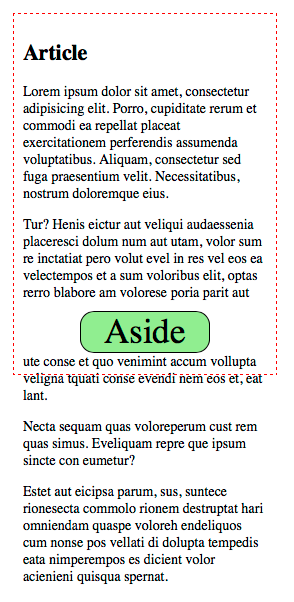
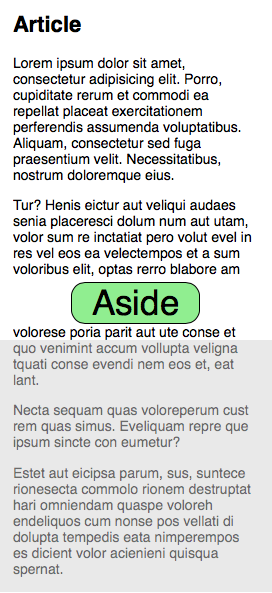
[css-regions] improve linked box images

diff --git a/css-regions/Overview.html b/css-regions/Overview.html
@@ -56,7 +56,7 @@
 </p>
   <h1 class="p-name no-ref" id=title>CSS Regions Module Level 1</h1>
   <h2 class="no-num no-toc no-ref heading settled heading" id=subtitle><span class=content>Editor’s Draft,
-    <span class=dt-updated><span class=value-title title=20140325>25 March 2014</span></span></span></h2>
+    <span class=dt-updated><span class=value-title title=20140328>28 March 2014</span></span></span></h2>
   <div data-fill-with=spec-metadata><dl><dt>This version:<dd><a class=u-url href=http://dev.w3.org/csswg/css-regions/>http://dev.w3.org/csswg/css-regions/</a><dt>Latest version:<dd><a href=http://www.w3.org/TR/css-regions/>http://www.w3.org/TR/css-regions/</a><dt>Editor’s Draft:<dd><a href=http://dev.w3.org/csswg/css-regions/>http://dev.w3.org/csswg/css-regions/</a>
     <dt>Feedback:</dt>
         <dd><a href="mailto:www-style@w3.org?subject=%5Bcss-regions%5D%20feedback">www-style@w3.org</a>
@@ -288,15 +288,18 @@ Introduction</span><a class=self-link href=#introduction></a></h2>
 		</figure>
 
 		<p style=clear:left;>In the images above, 
-			the red outline indicates the size of the viewport.
+			the gray area represents  
+			the content below the screen edge 
+			in the initial view.
 
-		<p>This example links just two boxes together, 
+<p>		This example links just two boxes together, 
 		but more boxes could be added to the <a class=css data-link-type=maybe href=#region-chain0 title="region chain">region chain</a> 
 		to regularly interleave other content with the article.
 	</div>
 
 	<div class=example>
-		Custom overflow handling can be accomplished by linking a separate overflow box. In this example, the overflow box is nestled inside a menu in the markup, and only displays if the menu is toggled.
+
+<p>		Custom overflow handling can be accomplished by linking a separate overflow box. In this example, the overflow box is nestled inside a menu in the markup, and only displays if the menu is toggled.
 
 		<pre><code class=html>
   &lt;nav&gt; ...some links... &lt;/nav&gt;
@@ -2187,6 +2190,7 @@ Changes from <a href=http://www.w3.org/TR/2014/WD-css3-regions-20140218/>Februar
 		<li>Added three simpler examples to the introduction</li>
 		<li>Moved complex example to the <a href=http://wiki.csswg.org/spec/css3-regions/complex-layout-example>CSSWG wiki</a></li>
 	</ul>
+
 <h3 class="heading settled heading" data-level=11.2 id=changes_from_May_28_2013><span class=secno>11.2 </span><span class=content>
 Changes from <a href=http://www.w3.org/TR/2013/WD-css3-regions-20130528/>May 28<sup>th</sup> 2013</a> version</span><a class=self-link href=#changes_from_May_28_2013></a></h3>
 

diff --git a/css-regions/examples/linked-boxes.html b/css-regions/examples/linked-boxes.html
@@ -9,6 +9,7 @@
   		-border: thin black solid;
   		padding: 10px;
   		position: relative;
+  		font-family: sans-serif;
   	}
 		aside {
 			border: thin black solid;
@@ -22,13 +23,15 @@
 			font-size: 10px;
 			-webkit-flow-into: article-flow;
 		}
-		.screen {
+		.off-screen {
 			position: absolute;
-			left: 3px;
-			top: 3px;
-			width: calc(190px - 8px);
-			height: 250px;
-			border: thin dashed red;
+			top: 250px;
+			left: 0px;
+			width: 190px;
+			height: 175px;
+			background-color: lightgray;
+			opacity: .5;
+			z-index: 1;
 		}
 		.region {
 			-webkit-flow-from: article-flow;
@@ -39,11 +42,11 @@
   </style>
 </head>
 <body lang="en">
-	<div class="screen"></div>
+	<div class="off-screen"></div>
   <article>
   	<h1>Article</h1>
   	<p>Lorem ipsum dolor sit amet, consectetur adipisicing elit. Porro, cupiditate rerum et commodi ea repellat placeat exercitationem perferendis assumenda voluptatibus. Aliquam, consectetur sed fuga praesentium velit. Necessitatibus, nostrum doloremque eius.</p>
-  	<p>Tur? Henis eictur aut veliqui audaessenia placeresci dolum num aut utam, volor sum re inctatiat pero volut evel in res vel eos ea velectempos et a sum voloribus elit, optas rerro blabore am volorese poria parit aut ute conse et quo venimint accum vollupta veligna tquati conse evendi nem eos et, eat lant.
+  	<p>Tur? Henis eictur aut veliqui audaes senia placeresci dolum num aut utam, volor sum re inctatiat pero volut evel in res vel eos ea velectempos et a sum voloribus elit, optas rerro blabore am volorese poria parit aut ute conse et quo venimint accum vollupta veligna tquati conse evendi nem eos et, eat lant.
 		<p>Necta sequam quas voloreperum cust rem quas simus. Eveliquam repre que ipsum sincte con eumetur?
 		<p>Estet aut eicipsa parum, sus, suntece rionesecta commolo rionem destruptat hari omniendam quaspe voloreh endeliquos cum nonse pos vellati di dolupta tempedis eata nimperempos es dicient volor acienieni quisqua spernat.
   </article>

diff --git a/css-regions/Overview.src.html b/css-regions/Overview.src.html
@@ -125,14 +125,17 @@ Introduction</h2>
 		</figure>
 
 		<p style="clear:left;">In the images above, 
-			the red outline indicates the size of the viewport.
+			the gray area represents  
+			the content below the screen edge 
+			in the initial view.
 
-		<p>This example links just two boxes together, 
+		This example links just two boxes together, 
 		but more boxes could be added to the ''region chain'' 
 		to regularly interleave other content with the article.
 	</div>
 
 	<div class="example">
+
 		Custom overflow handling can be accomplished by linking a separate overflow box. In this example, the overflow box is nestled inside a menu in the markup, and only displays if the menu is toggled.
 
 		<pre><code class="html">
@@ -2119,7 +2122,7 @@ Changes from <a href="http://www.w3.org/TR/2014/WD-css3-regions-20140218/">Febru
 		<li>Added three simpler examples to the introduction</li>
 		<li>Moved complex example to the <a href="http://wiki.csswg.org/spec/css3-regions/complex-layout-example">CSSWG wiki</a></li>
 	</ul>
-	
+
 <h3 id="changes_from_May_28_2013">
 Changes from <a href="http://www.w3.org/TR/2013/WD-css3-regions-20130528/">May 28<sup>th</sup> 2013</a> version</h3>
 
